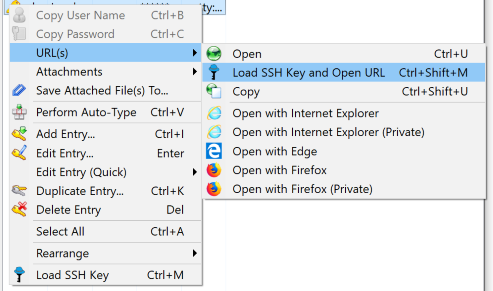
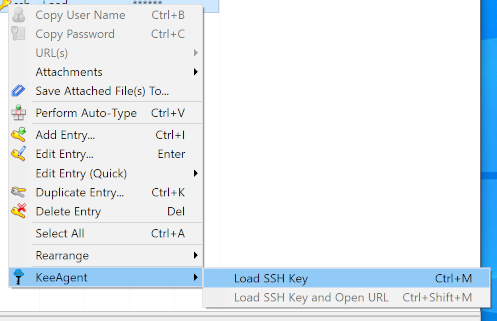
Update docs for menu changes

diff --git a/doc/integrations/menu-items.rst b/doc/integrations/menu-items.rst
@@ -13,38 +13,38 @@ This is the KeePass application menu.
 .. figure:: images/win10-keepass-application-menu.png
     :alt: KeePass - Application Menu
 
-Tools Menu
+
+Group Menu
 ----------
 
-KeeAgent adds one item to the Tools menu.
+The *Group Menu* is accessed by clicking on *Group* in the main application menu
+or by right-clicking on an group in the group navigation pane on the left side
+of the main window in KeePass.
 
-.. figure:: images/win10-keepass-tools-menu.png
-    :alt: KeePass - Tools menu - KeeAgent
+.. figure:: images/win10-keepass-group-menu.png
+        :alt: Screenshot of KeePass main window group menu on Windows 10
 
-KeeAgent
-    Opens the KeeAgent Manager dialog.
+.. figure:: images/win10-keepass-group-context-menu.png
+        :alt: Screenshot of KeePass main window group context menu on Windows 10
 
-.. todo:: Add link to page on KeeAgent manager.
+**Load SSH Keys** (Ctrl+M)
+    Loads keys from the selected group in to the agent.
 
-Help Menu
----------
-
-KeeAgent adds one item to the Help menu.
-
-.. figure:: images/win10-keepass-help-menu.png
-    :alt: KeePass - Help menu - KeeAgent
-
-KeeAgent
-    Opens the KeeAgent documentation in a web browser.
+    .. note:: This menu item is only visible if the selected group contains any
+        SSH keys.
 
 
-Entry Context Menu
-==================
+Entry Menu
+----------
 
-The Entry Context Menu is accessed by right-clicking on an entry in the entry list.
+The *Entry Menu* is accessed by clicking *Entry* in the main application menu
+or by right-clicking on an entry in the entry list.
+
+.. figure:: images/win10-keepass-entry-menu-expanded.png
+        :alt: Screenshot of KeePass main window entry menu on Windows 10
 
 .. figure:: images/win10-keepass-context-menu-expanded.png
-        :alt: Context Menu - Load SSH Key
+        :alt: Screenshot of KeePass main window entry context menu on Windows 10
 
 **Load SSH Key** (Ctrl+M)
     Loads key from the selected entry in to the agent.
@@ -63,20 +63,30 @@ The Entry Context Menu is accessed by right-clicking on an entry in the entry li
     and *URL(s) > Open* menu items.
 
 
-Group Context Menu
-==================
+Tools Menu
+----------
 
-The Group Context Menu is accessed by right-clicking on an group in the group
-navigation pane on the left side of the main window in KeePass.
+KeeAgent adds one item to the Tools menu.
 
-.. figure:: images/win10-keepass-group-context-menu.png
-        :alt: Screenshot of KeePass main window group context menu on Windows 10
+.. figure:: images/win10-keepass-tools-menu.png
+    :alt: KeePass - Tools menu - KeeAgent
 
-**Load SSH Keys** (Ctrl+M)
-    Loads keys from the selected group in to the agent.
+KeeAgent
+    Opens the KeeAgent Manager dialog.
 
-    .. note:: This menu item is only visible if the selected group contains any
-        SSH keys.
+.. todo:: Add link to page on KeeAgent manager.
+
+
+Help Menu
+---------
+
+KeeAgent adds one item to the Help menu.
+
+.. figure:: images/win10-keepass-help-menu.png
+    :alt: KeePass - Help menu - KeeAgent
+
+KeeAgent
+    Opens the KeeAgent documentation in a web browser.
 
 
 Notification Tray Icon Menu
